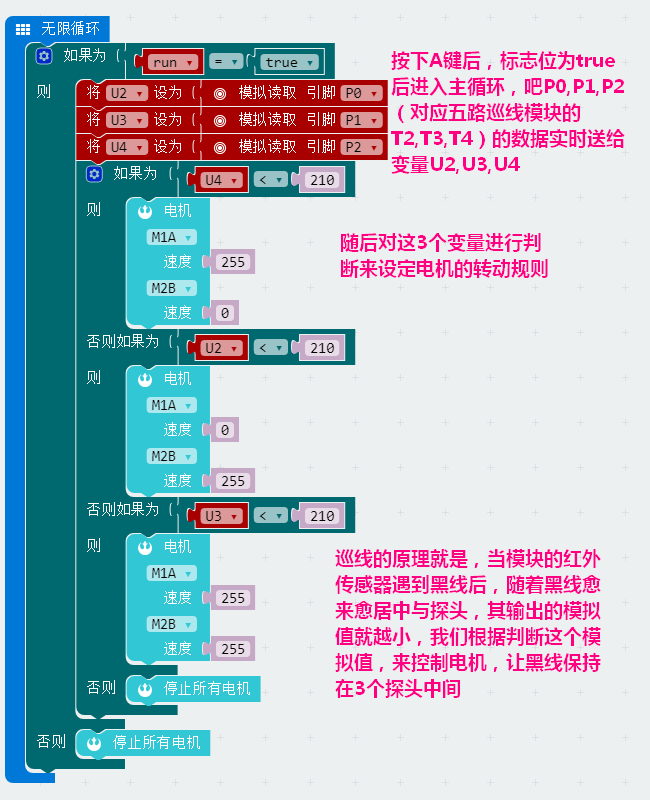
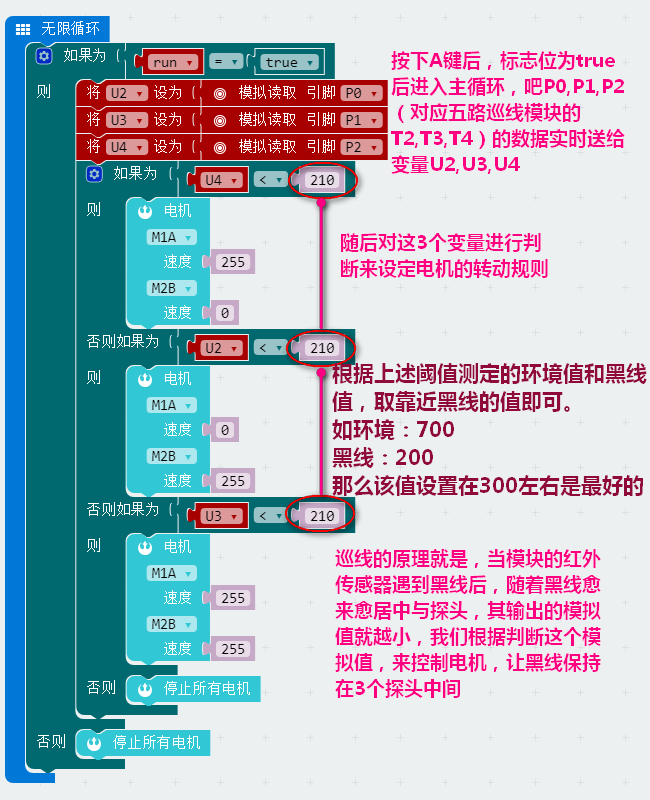
hogan

Changed region(s): [[0.4308, 0.1875, 1.0, 0.6875], [0.4308, 0.625, 0.4615, 0.6562]]

diff --git a/microbitadvanced/microbit喵咪咪.md b/microbitadvanced/microbit喵咪咪.md
@@ -11,27 +11,39 @@ Microbit喵咪咪是由Kittenbot团队个人推出的微信小程序，支持通
 选择硬件MicroBit Python-连上COM口-点击恢复固件 
 ![](./wechat/刷固件.png)  
 
-②.打开手机蓝牙 
+**固件恢复成功microbit屏幕会循环闪过几个字符，就是蓝牙的编号**  
+
+![](./wechat/固件.gif) 
+
+②.打开手机蓝牙  
  
 ![](./wechat/步骤1.png) 
 
-③.扫描蓝牙，并点击结果连接
+③.扫描蓝牙，找到对应蓝牙编号，并点击结果连接  
+
 ![](./wechat/步骤2.png)  
 
 ![](./wechat/步骤3.png)
 
-③.Microbit的点阵屏，Robotbit，发送显示字符串的功能
-![](./wechat/基本操作.png)
+## 小程序控制功能
 
-④.对应Robotbit电机控制，点入感叹号设置4个方向按钮的电机数值,电机数值上面为M1A，下面为M2A，均采用红+黑-的接线方法
+1.Microbit的点阵屏，Robotbit，发送显示字符串的功能
+
+![](./wechat/基本操作.png)  
+![](./wechat/小程序microbit.png)
+
+2.对应Robotbit电机控制，点入感叹号设置4个方向按钮的电机数值,电机数值上面为M1A，下面为M2A，均采用红+黑-的接线方法
 
 ![](./wechat/基本操作2.png)  
 ![](./wechat/控制电机.png)  
+![](./wechat/小程序电机.png)
  
-⑤.对应Robotbit舵机控制,目前支持9G小舵机的0-180°控制  
+3.对应Robotbit舵机控制,目前支持舵机的0-180°控制   
+
 ![](./wechat/控制舵机.png)   
-  
-以上就是小程序Microbit喵咪咪的操作内容。后续将持续更新
+![](./wechat/小程序舵机.png)    
+
+**以上就是小程序Microbit喵咪咪的操作内容。后续将持续更新**
 
 
 

diff --git a/kittensuite/Robotbit巡线避障.md b/kittensuite/Robotbit巡线避障.md
@@ -64,7 +64,7 @@ Microbit&Robotbit巡线壁障小车
 ## 组合过程    
   
 **零件拼装**  
- 
+
 1.将9g从背面顶上来，并用舵机包里的细长螺丝和螺母固定住  
 
 ![](./images/zuhe_1.png)  
@@ -116,21 +116,25 @@ Microbit&Robotbit巡线壁障小车
   
 ![](./images/b_show.gif)
 
-## 使用环境
-
-编程方式：Kittenblock(基于Scratch3.0)/Makecode可连接硬件：Microbit 
-
-## 使用方法  
-
-- 编程方式：Kittenblock(基于Scratch3.0)/Arduino/Makecode
-- 兼容硬件（配合硬件，或者配套什么使用）：各种arduino传感器
-- 小喵教程集合地址：learn.kittenbot.cn
-- 小喵论坛地址：kittenbot.cn/bbs
-- 网易云课堂：搜索小喵科技
--更多的实时讨论，请加入爱上小喵科技官方Q群：568084773
   
-**3路巡线编程**    
+## 3路巡线编程    
   
+**巡线阈值测定**
+
+首先接好线后将下列程序烧入板子
+
+![](./images/黑线检测3.png)
+
+- 第一步测量环境值
+
+![](./images/黑线检测2.png)
+
+- 第二步测量黑线值  
+
+![](./images/黑线检测1.png)
+
+**三路巡线编程**
+
 ![](./images/x_chengxu.png)  
 ![](./images/x_chengxu2.png)  
   
